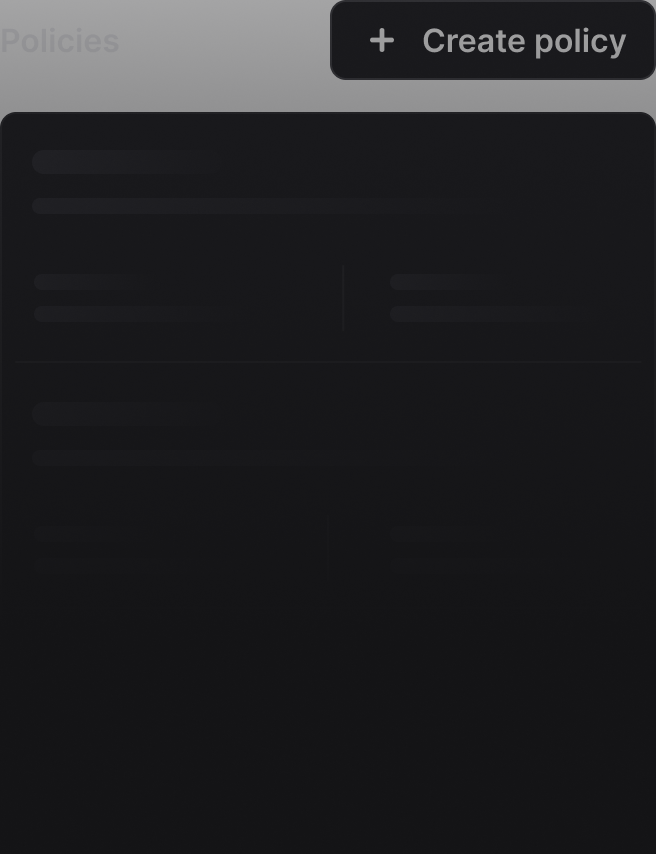
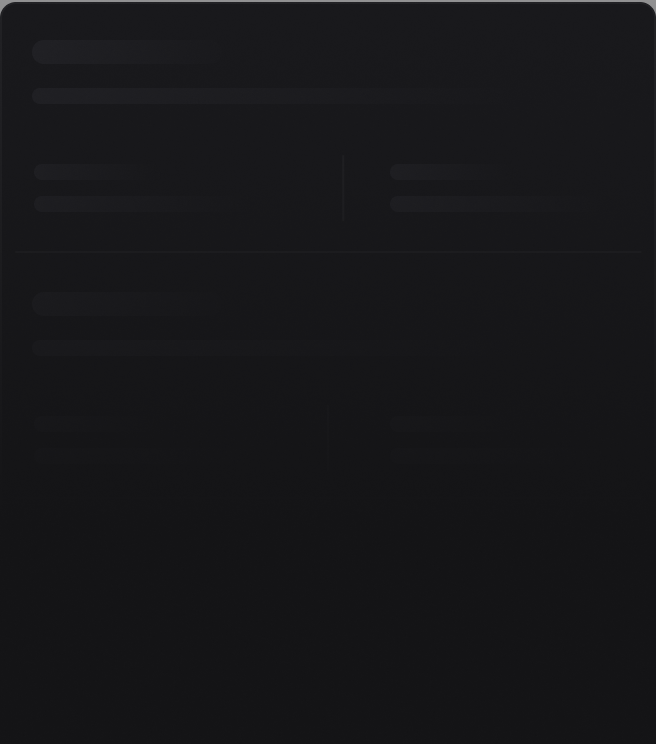
update: locked content.

diff --git a/src/routes/(console)/project-[project]/databases/database-[database]/backups/locked.svelte b/src/routes/(console)/project-[project]/databases/database-[database]/backups/locked.svelte
@@ -1,0 +1,124 @@
+<script lang="ts">
+    import ContainerHeader from './containerHeader.svelte';
+    import UpgradeCard from './upgradeCard.svelte';
+    import { app } from '$lib/stores/app';
+
+    import LockedBackupsDarkDesktop from '$lib/images/backups/empty/backups-dark.png';
+    import LockedBackupsLightDesktop from '$lib/images/backups/empty/backups-light.png';
+
+    import LockedBackupsDarkMobile from '$lib/images/backups/empty/backups-mobile-dark.png';
+    import LockedBackupsLightMobile from '$lib/images/backups/empty/backups-mobile-light.png';
+
+    import LockedBackupsDarkTablet from '$lib/images/backups/empty/backups-tablet-dark.png';
+    import LockedBackupsLightTablet from '$lib/images/backups/empty/backups-tablet-light.png';
+</script>
+
+<div class="u-flex-vertical u-gap-32">
+    <UpgradeCard />
+
+    <div style="opacity: 0.25;">
+        <!-- mobile, only policies are shown -->
+        <div class="is-only-mobile u-flex-vertical u-gap-16">
+            <ContainerHeader
+                title="Policies"
+                buttonText="Create policy"
+                buttonType="secondary"
+                buttonDisabled={true} />
+
+            <img
+                src={$app.themeInUse === 'dark'
+                    ? LockedBackupsDarkMobile
+                    : LockedBackupsLightMobile}
+                alt="create"
+                aria-hidden="true" />
+        </div>
+
+        <!-- tablet, only policies are shown but bigger table-->
+        <div class="is-tablet u-flex-vertical u-gap-16 u-width-full-line">
+            <ContainerHeader
+                title="Policies"
+                buttonText="Create policy"
+                buttonType="secondary"
+                buttonDisabled={true} />
+
+            <img
+                src={$app.themeInUse === 'dark'
+                    ? LockedBackupsDarkTablet
+                    : LockedBackupsLightTablet}
+                alt="create"
+                aria-hidden="true" />
+        </div>
+
+        <div class="is-desktop u-flex-vertical u-gap-16">
+            <div class="desktop-locked-card-buttons u-flex u-gap-24">
+                <div style="width: 31%">
+                    <ContainerHeader
+                        title="Policies"
+                        buttonText="Create policy"
+                        buttonType="secondary"
+                        buttonDisabled={true} />
+                </div>
+
+                <div style="width: 69%; padding-inline-start: 1.5rem;">
+                    <ContainerHeader
+                        title="Backups"
+                        buttonText="Manual backup"
+                        buttonType="secondary"
+                        buttonDisabled={true} />
+                </div>
+            </div>
+
+            <img
+                src={$app.themeInUse === 'dark'
+                    ? LockedBackupsDarkDesktop
+                    : LockedBackupsLightDesktop}
+                alt="create"
+                aria-hidden="true" />
+        </div>
+    </div>
+</div>
+
+<style>
+    .is-tablet {
+        display: none;
+    }
+
+    :global(.desktop-locked-card-buttons .common-section) {
+        margin-block-start: unset !important;
+    }
+
+    @media (max-width: 524px) {
+        .is-tablet,
+        .is-desktop {
+            height: 0;
+            visibility: hidden;
+            display: none !important;
+        }
+    }
+
+    @media (min-width: 525px) and (max-width: 799.99px) {
+        .is-tablet {
+            display: block;
+        }
+
+        .is-desktop,
+        .is-only-mobile {
+            height: 0;
+            visibility: hidden;
+            display: none !important;
+        }
+    }
+
+    @media (min-width: 800px) {
+        .is-desktop {
+            display: block !important;
+        }
+
+        .is-tablet,
+        .is-only-mobile {
+            height: 0;
+            visibility: hidden;
+            display: none !important;
+        }
+    }
+</style>

diff --git a/src/routes/(console)/project-[project]/databases/database-[database]/backups/+page.svelte b/src/routes/(console)/project-[project]/databases/database-[database]/backups/+page.svelte
@@ -3,7 +3,7 @@
     import { Container } from '$lib/layout';
     import ContainerHeader from './containerHeader.svelte';
     import BackupPolicy from './policy.svelte';
-    import UpgradeCard from './upgradeCard.svelte';
+    import LockedCard from './locked.svelte';
     import Table from './table.svelte';
     import type { PageData } from './$types';
     import CreatePolicy from './createPolicy.svelte';
@@ -14,21 +14,11 @@
     import { BillingPlan, Dependencies } from '$lib/constants';
     import { isCloud, isSelfHosted } from '$lib/system';
     import { organization } from '$lib/stores/organization';
-    import { app } from '$lib/stores/app';
     import { onMount } from 'svelte';
     import { feedback } from '$lib/stores/feedback';
     import { cronExpression, type UserBackupPolicy } from '$lib/helpers/backups';
     import { ID } from '@appwrite.io/console';
     import { showCreateBackup, showCreatePolicy } from './store';
-
-    import LockedBackupsDarkDesktop from '$lib/images/backups/empty/backups-dark.png';
-    import LockedBackupsLightDesktop from '$lib/images/backups/empty/backups-light.png';
-
-    import LockedBackupsDarkMobile from '$lib/images/backups/empty/backups-mobile-dark.png';
-    import LockedBackupsLightMobile from '$lib/images/backups/empty/backups-mobile-light.png';
-
-    import LockedBackupsDarkTablet from '$lib/images/backups/empty/backups-tablet-dark.png';
-    import LockedBackupsLightTablet from '$lib/images/backups/empty/backups-tablet-light.png';
 
     let policyCreateError: string;
     let totalPolicies: UserBackupPolicy[] = [];
@@ -188,34 +178,7 @@
             </div>
         {:else}
             <div class="u-flex-vertical u-gap-32">
-                <UpgradeCard />
-
-                <img
-                    class="is-not-mobile"
-                    src={$app.themeInUse === 'dark'
-                        ? LockedBackupsDarkDesktop
-                        : LockedBackupsLightDesktop}
-                    alt="create"
-                    aria-hidden="true"
-                    style="opacity: 0.5" />
-
-                <img
-                    class="is-tablet"
-                    src={$app.themeInUse === 'dark'
-                        ? LockedBackupsDarkTablet
-                        : LockedBackupsLightTablet}
-                    alt="create"
-                    aria-hidden="true"
-                    style="opacity: 0.5" />
-
-                <img
-                    class="is-only-mobile"
-                    src={$app.themeInUse === 'dark'
-                        ? LockedBackupsDarkMobile
-                        : LockedBackupsLightMobile}
-                    alt="create"
-                    aria-hidden="true"
-                    style="opacity: 0.5" />
+                <LockedCard />
             </div>
         {/if}
     </div>
@@ -254,23 +217,9 @@
         align-content: center;
     }
 
-    .is-tablet {
-        display: none;
-    }
-
     @media (min-width: 768px) {
         .policies-holder-card {
             max-width: 21.5rem;
-        }
-    }
-
-    @media (min-width: 525px) and (max-width: 768px) {
-        .is-tablet {
-            display: block;
-        }
-
-        .is-only-mobile {
-            display: none !important;
         }
     }
 </style>

diff --git a/src/routes/(console)/project-[project]/databases/database-[database]/backups/containerHeader.svelte b/src/routes/(console)/project-[project]/databases/database-[database]/backups/containerHeader.svelte
@@ -12,7 +12,9 @@
 </script>
 
 <header class:u-flex={isFlex} class="u-gap-12 common-section u-main-space-between u-flex-wrap">
-    <div class="u-flex u-cross-child-center u-cross-center u-gap-16">
+    <div
+        class="u-flex u-cross-child-center u-cross-center u-gap-16"
+        class:is-disabled={buttonDisabled}>
         <div class="body-text-1 u-bold backups-title">{title}</div>
     </div>
 
